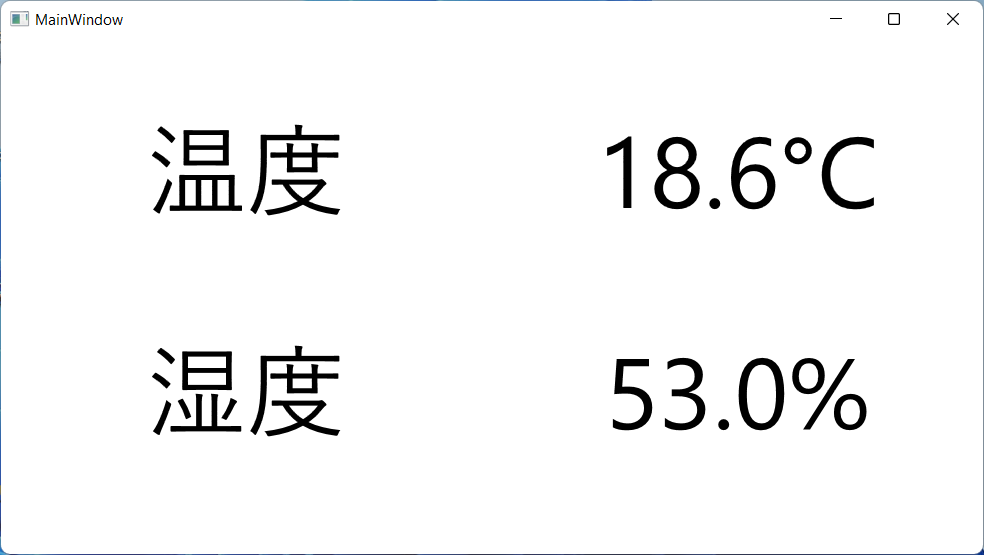
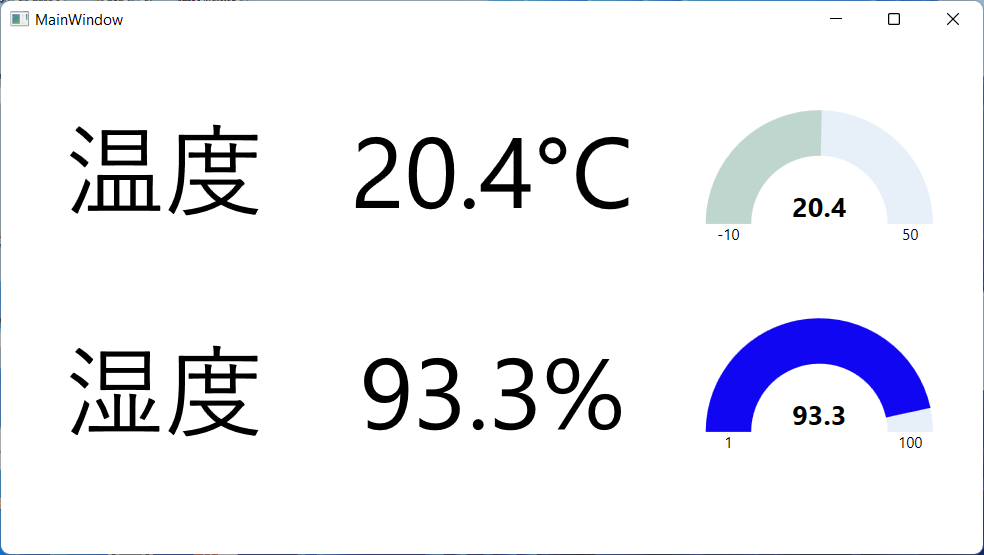
with the gauge

diff --git a/THSensor/MainWindow.xaml b/THSensor/MainWindow.xaml
@@ -1,4 +1,4 @@
-<Window x:Class="THSensor.MainWindow"
+<Window xmlns:Wpf="clr-namespace:LiveCharts.Wpf;assembly=LiveCharts.Wpf"  x:Class="THSensor.MainWindow"
         xmlns="http://schemas.microsoft.com/winfx/2006/xaml/presentation"
         xmlns:x="http://schemas.microsoft.com/winfx/2006/xaml"
         xmlns:d="http://schemas.microsoft.com/expression/blend/2008"
@@ -10,9 +10,12 @@
         <Grid.RowDefinitions>
             <RowDefinition>
             </RowDefinition>
-            <RowDefinition></RowDefinition>
+            <RowDefinition>
+                
+            </RowDefinition>
         </Grid.RowDefinitions>
         <Grid.ColumnDefinitions>
+            <ColumnDefinition></ColumnDefinition>
             <ColumnDefinition></ColumnDefinition>
             <ColumnDefinition></ColumnDefinition>
         </Grid.ColumnDefinitions>
@@ -21,10 +24,12 @@
         </TextBlock>
         <TextBlock Text="{Binding Temperature}" Grid.Row="0" Grid.Column="1" FontSize="80" HorizontalAlignment="Center" VerticalAlignment="Center">
         </TextBlock>
+        <Wpf:Gauge Grid.Row="0" Grid.Column="2" Value="{Binding Temp}"  From="-10" FromColor="SkyBlue" To="50" ToColor="Wheat" Margin="40" />
         <TextBlock Grid.Row="1" Grid.Column="0" FontSize="80" HorizontalAlignment="Center" VerticalAlignment="Center" Margin="0,-60,0,0">
             湿度
         </TextBlock>
         <TextBlock Text="{Binding Humidity}" Grid.Row="1" Grid.Column="1" FontSize="80" HorizontalAlignment="Center" VerticalAlignment="Center" Margin="0,-60,0,0">
         </TextBlock>
+        <Wpf:Gauge Grid.Row="1" Grid.Column="2" Value="{Binding Hum}"  From="1" FromColor="Tomato" To="100" ToColor="Blue" Margin="40, -40, 40, 40" />
     </Grid>
 </Window>

diff --git a/THSensor/Sensor.cs b/THSensor/Sensor.cs
@@ -14,7 +14,10 @@ namespace THSensor
         public decimal Temp
         {
             get => temp;
-            set => SetProperty(ref temp, value, nameof(Temperature));
+            set {
+                SetProperty(ref temp, value, nameof(Temp));
+                OnPropertyChanged(nameof(Temperature));
+            }
         }
 
         public string Temperature
@@ -31,7 +34,11 @@ namespace THSensor
         public decimal Hum
         {
             get => hum;
-            set => SetProperty(ref hum, value, nameof(Humidity));
+            set
+            {
+                SetProperty(ref hum, value, nameof(Hum));
+                OnPropertyChanged(nameof(Humidity));
+            }
         }
     }
 }
